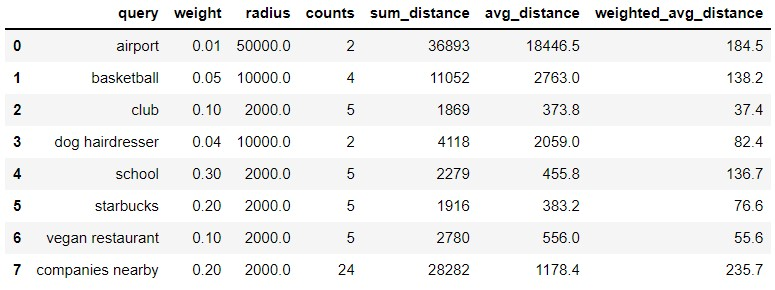
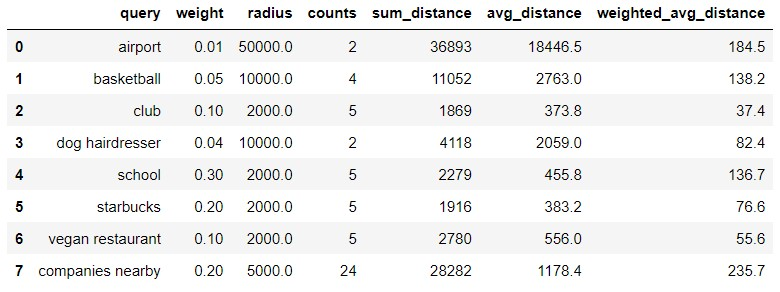
updated some typos

diff --git a/README.md b/README.md
@@ -13,7 +13,28 @@ The starting point is a collection composed of roughly 18,000 companies, which n
 - To be in a city with a **gaming industry hub**: this is a gaming company, which would like to outsource and establish collaborations with other companies in the industry. Therefore, being surrounded by other gaming companies is a must.
 - To be in a city with successful (>$1M money raised) companies in the design and tech industries, as it is required by roughly **40%** of the employees (designers and developers).
 
-Thus, filtering the collection using these two initial requirements would help us identify those cities with a potential hub. Out of the ~18,000 companies, **285** are purely gaming companies (**gaming hub**). If *design* and *tech* tags are included in the filters (**gaming-tech-design hub**), then **430** companies remain. The top five cities in each case are:
+Thus, filtering the collection using these two initial requirements would help us identify those cities with a potential hub. 
+
+See below the filter applied to select **gaming** companies:
+
+```python
+# Necessary filters: Companies whose 'offices' field is not empty and who have raised more than 1M $/€
+office_filter = {'offices' : {"$ne" : []}}
+money_filter = {'total_money_raised' : {"$regex" : ".*\d+[MB]"}}
+necessary = {"$and" : [office_filter, money_filter]}
+
+# If I only consider gaming companies:
+tag_filter = {'tag_list' : {"$regex": ".*gaming.*|.*game.*"}}
+overview_filter = {'overview' : {"$regex": ".*gaming.*|.*game.*"}}
+
+projection = {"_id":0, "name":1, 'total_money_raised':1, 'offices':1, 'tag_list':1}
+
+companies = list(c.find({"$or": [{"$and": [necessary, tag_filter]},
+                                 {"$and": [necessary, overview_filter]}
+                                        ]}, projection))
+```
+
+Out of the ~18,000 companies, **285** are purely gaming companies (**gaming hub**). If *design* and *tech* tags are included in the filters (**gaming-tech-design hub**), then **430** companies remain. The top five cities in each case are:
 
 <img src="images/number_companies_gaming.jpg" width="370"/> <img src="images/number_companies.jpg" width="370"/> 
 
@@ -52,7 +73,8 @@ vegan = getFoursquareCategory("vegan restaurant", city, 2000, 13377, token_fsq, 
 
 ## 4- Building distance tables
 
-Next, the **distance** between the chosen coordinates and each category (*query* in foursquare) was extracted from the results of the request. In the case of the **nearby companies**, which were also included in the final table, the distance was calculated using a function that considered their latitude and longitude coordinate values.
+- Next, the **distance** between the chosen coordinates and each category (*query* in foursquare) was extracted from the results of the request. 
+- In the case of the **nearby companies**, which were also included in the final table, the distance was calculated using a function that considered their latitude and longitude coordinate values. *Note: only the companies within a 5 km radius were considered.*
 
 ### Considerations:
 - Each category was assigned a **weight** value according to their importance. This is a value that goes from 0 to 1, and adds up to 1 all categories considered. The **importance** was decided based on two main factors: 
@@ -68,7 +90,8 @@ Next, the **distance** between the chosen coordinates and each category (*query*
 In order to calculate a final score, the weighted averaged distances were added. The final score was normalized as **percentage** based on the **minimum value of the comparison**. Thus, a score of 100% is the perfect score between the compared cities, and values (N) above 100 indicate that the categories are, on average, **+ N % more distant** from the company's coordinates.
 
 And the winner is... **San Francisco!** The coordinates of the potential company are: (37.781929, -122.404176).  
-New York came as a close second.
+
+- New York came as a close second. Interestingly enough, New York lost to SF due to the distance of the company to other gaming-tech-design companies, which are more scattered than in SF. On the contrary, the other activities/categories are more packed around the company's coordinates than in SF (see maps below).
 
 <img src="images/final_score.jpg" width="500"/>
 
